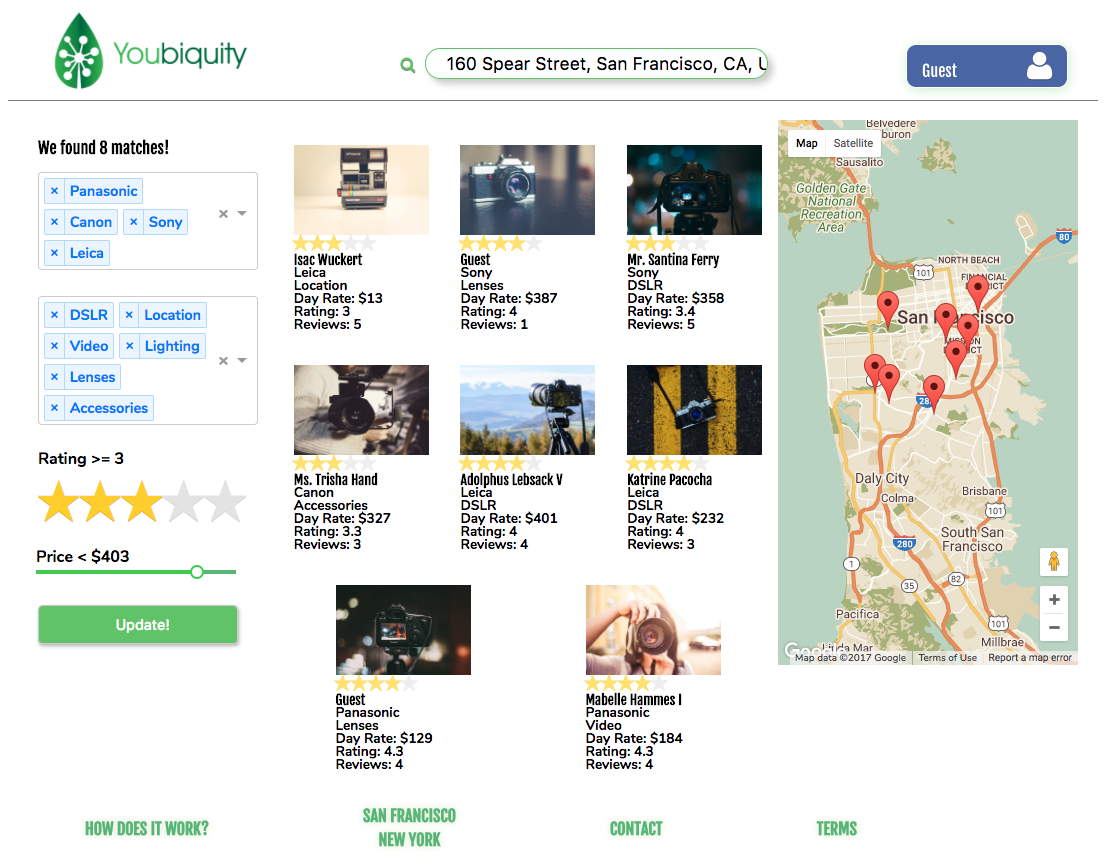
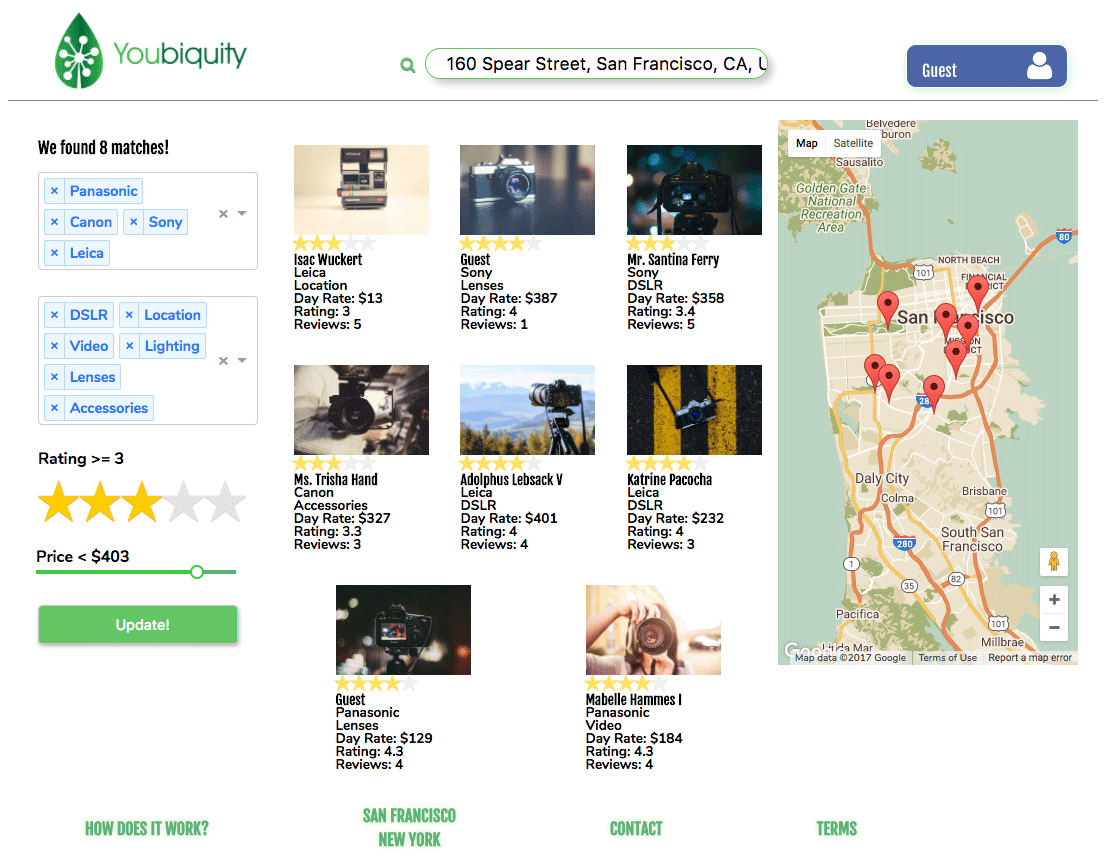
Some screenshot resizes, code snippet additions on README, fixed error handling message in rental model, uninstalled unecessary npm package

diff --git a/frontend/components/user/rating_form.jsx b/frontend/components/user/rating_form.jsx
@@ -54,7 +54,9 @@ class RatingForm extends React.Component {
           className="rating-filter"
           onUpdate={this.logRating}>
         </Rating>
-        <TextInput style={{ minHeight: 80, "overflow-y": "auto", "border": "1px solid #a9a9ac", "padding": "10px", "padding-top": "0" }} onChange={this.logReview} placeholder="Enter review in here..." allowNewLine/>
+        <TextInput style={
+            { minHeight: 80, "overflow-y": "auto", "border": "1px solid #a9a9ac", "padding": "10px", "padding-top": "0" }
+          } onChange={this.logReview} placeholder="Enter review in here..." allowNewLine/>
         <button className="review" onClick={this.handleSubmit}>Submit Review!</button>
         { this.renderErrors() }
       </div>

diff --git a/app/models/rental.rb b/app/models/rental.rb
@@ -25,7 +25,7 @@ class Rental < ActiveRecord::Base
   end
 
   def end_date_before_start_date?
-    errors.add(:drop_off, 'must be before pick up date') unless end_date > start_date
+    errors.add(:drop_off, 'must be after pick up date') unless end_date > start_date
   end
 
   def overlap?

diff --git a/README.md b/README.md
@@ -105,11 +105,34 @@ The user's rating performance is visualized through the Rechart module.  Maping 
 
 User data is collected through visual rating form components.
 
+Each individual rating form has their own internal state for error handling.
+
+```Javascript
+handleSubmit(){
+	this.props.submitReview({review: this.state})
+		.fail((errors) => this.setState({errors: errors.responseJSON}));
+}
+
+<div>
+	<b className="grey">Enter star rating below here...</b>
+	<Rating defaultValue={null}
+		className="rating-filter"
+		onUpdate={this.logRating}>
+	</Rating>
+	<TextInput style={
+			{ minHeight: 80, "overflow-y": "auto", "border": "1px solid #a9a9ac", "padding": "10px", "padding-top": "0" }
+		} onChange={this.logReview} placeholder="Enter review in here..." allowNewLine/>
+	<button className="review" onClick={this.handleSubmit}>Submit Review!</button>
+	{ this.renderErrors() }
+</div>
+```
+
 ## Technology
 It utilizes the following technology:
  - Notables in the Frontend (mostly using Javascript & CSS3/HTML5)
 	 - React
-		 - react-redux, react-router, react-modal, react-addons-css-transition-group, recharts
+		 - react-redux, react-router, react-modal, redux, react-addons-css-transition-group, recharts
+	 - babel, lodash, recharts, rc-slider, belle
 	 - Google Map API
 	 - Cloudinary CDN
 
